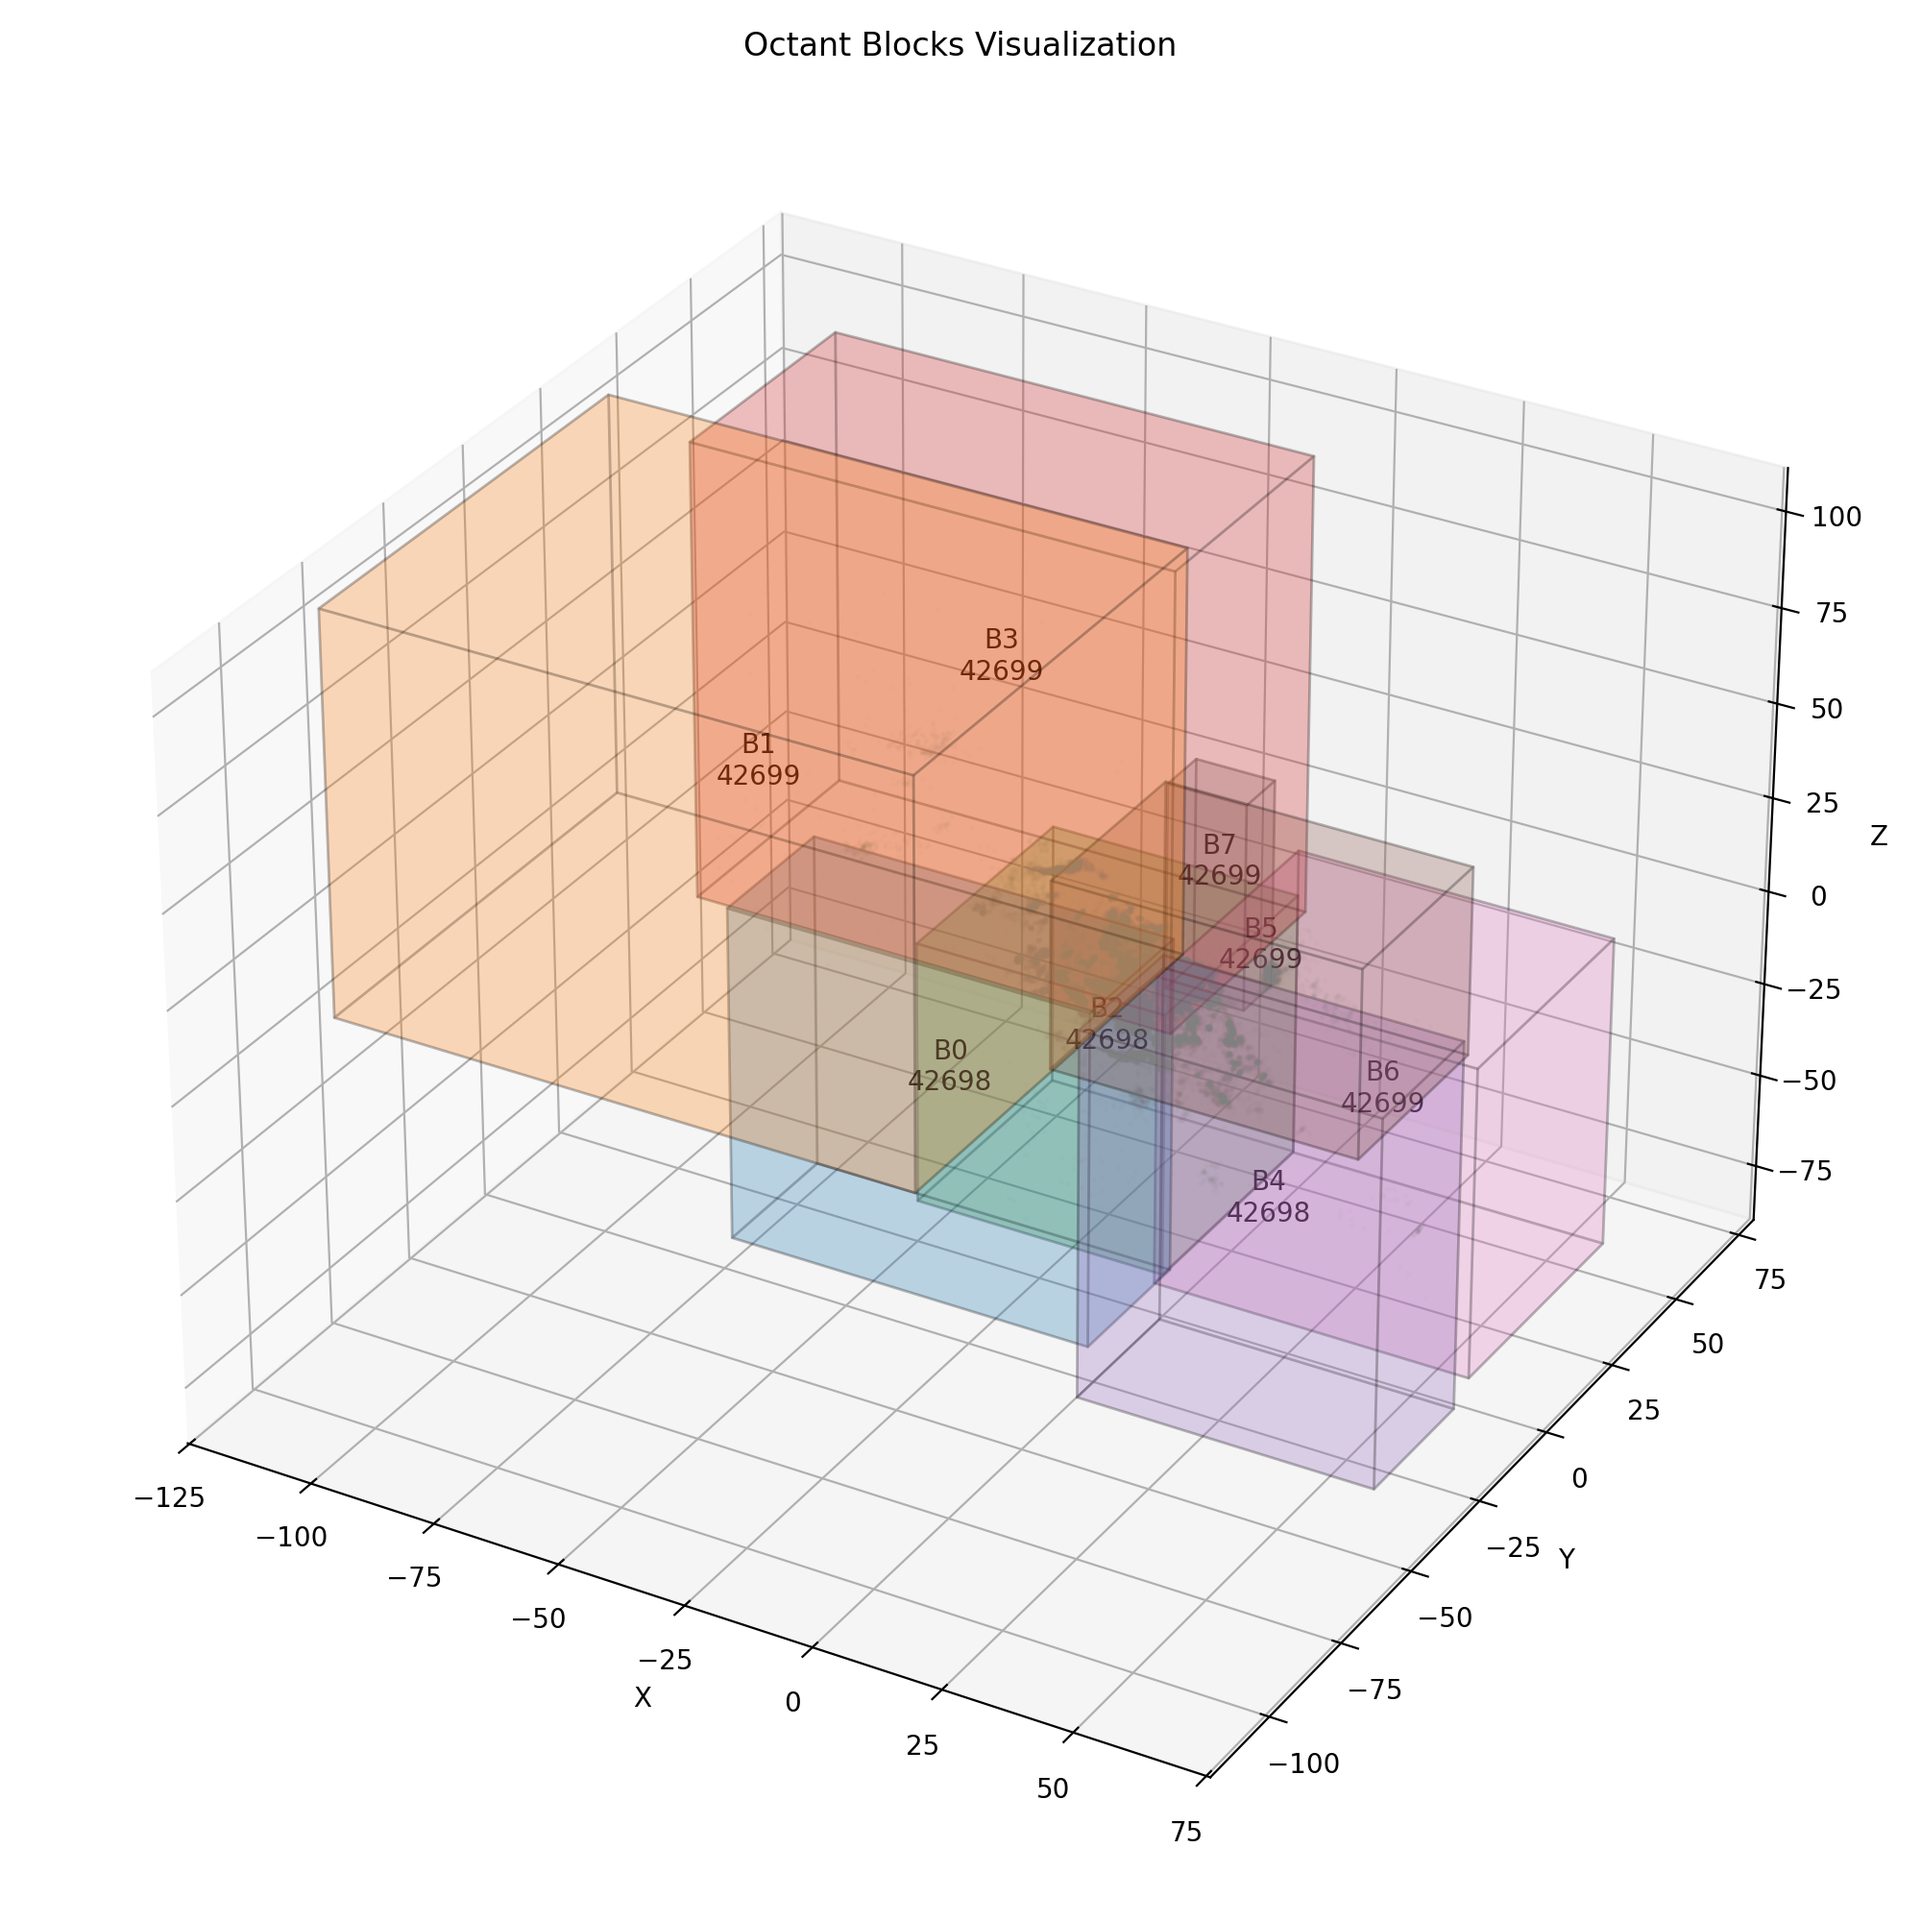
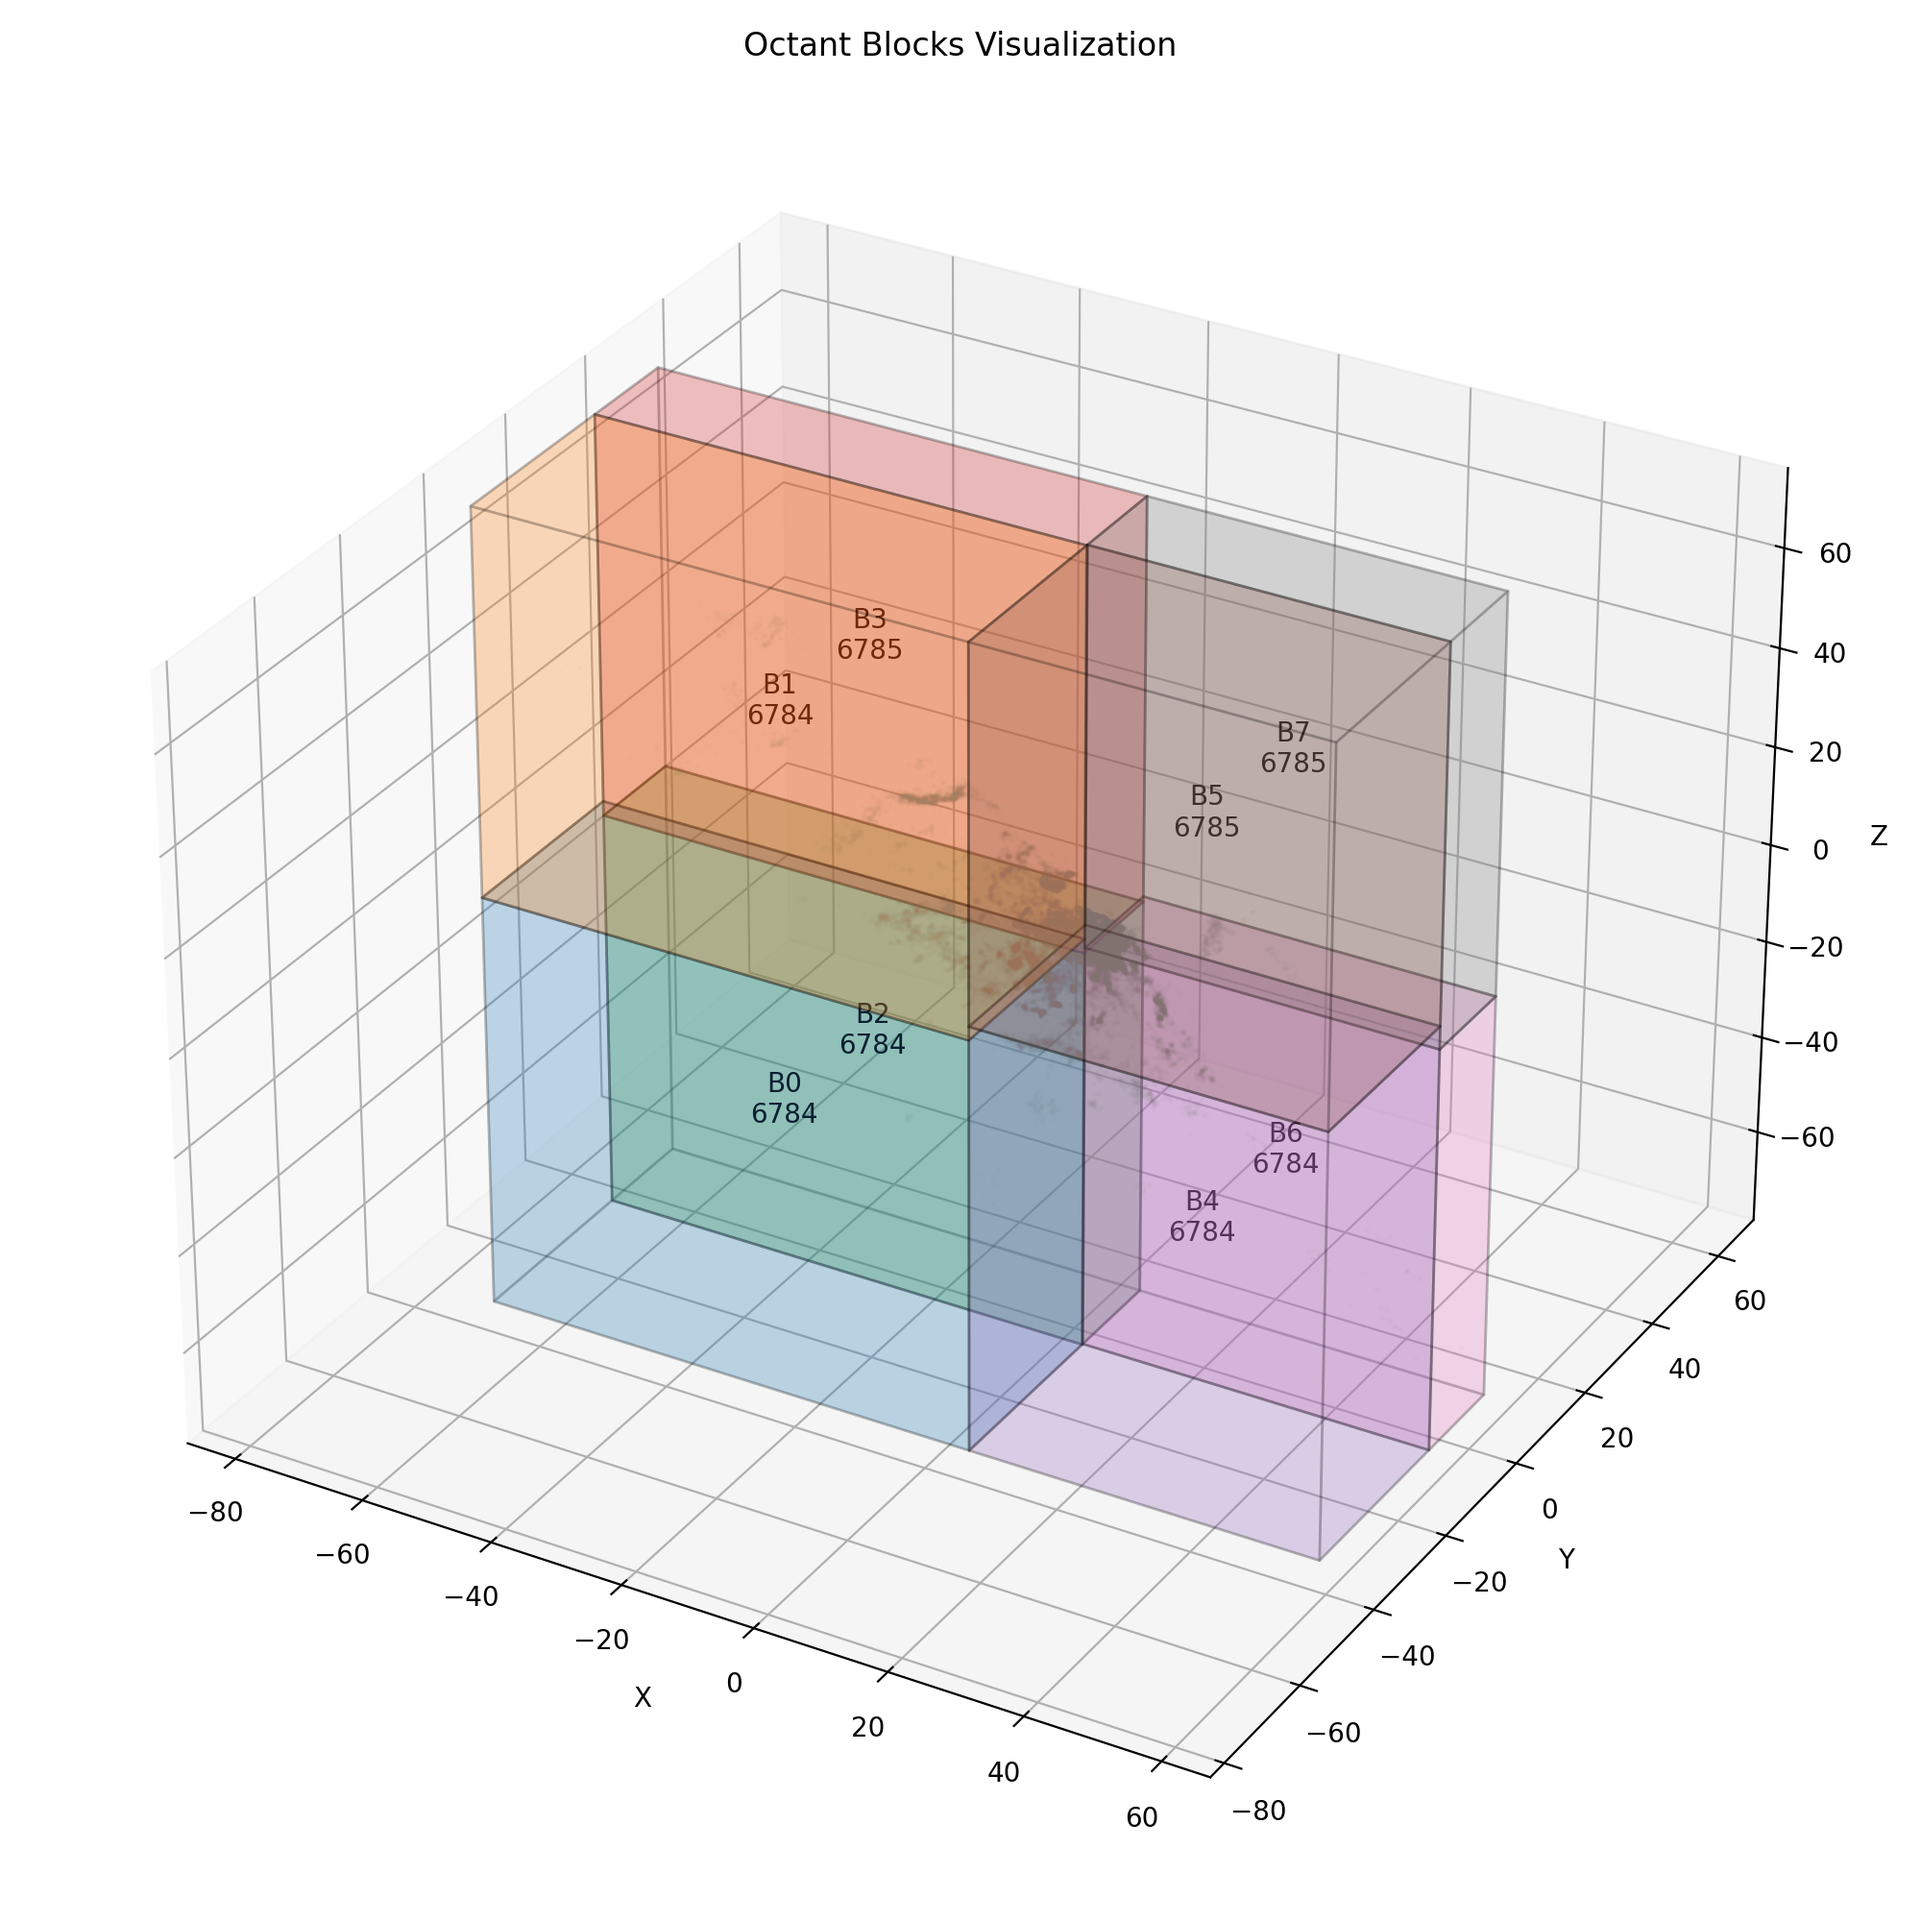
11

diff --git a/partition/__init__.py b/partition/__init__.py
@@ -127,74 +127,73 @@ def generate_octant_blocks_kdtree(xyz: torch.Tensor, inflate_ratio: float = 0.05
 
 
 
-def generate_space_kdtree_blocks(
-    xyz: torch.Tensor,
-    inflate_ratio: float = 0.05,
-    depth: int = 3,   
-):
-    """
-    Space-filling KD-tree (binary split)
-    输出：
-      block_bounds : List[(min_xyz, max_xyz)]
-      block_indices: List[LongTensor]
-    """
+
+def generate_space_kdtree_blocks(xyz: torch.Tensor, inflate_ratio: float = 0.05):
     device = xyz.device
     dtype  = xyz.dtype
     N = xyz.shape[0]
 
-    # ---------- 1. 固定整体 AABB ----------
+    all_idx = torch.arange(N, device=device)
+
+    # ---------- 1) 根 AABB（可 inflate 防漏） ----------
     mins = xyz.min(dim=0).values
     maxs = xyz.max(dim=0).values
-
     center = (mins + maxs) * 0.5
     extent = (maxs - mins) * 0.5
     extent = extent * (1.0 + inflate_ratio)
+    root_min = center - extent
+    root_max = center + extent
 
-    world_min = center - extent
-    world_max = center + extent
-
-    # ---------- 2. 构建 space-filling KD-tree ----------
-    block_bounds = []
-
-    def split(bounds_min, bounds_max, d):
-        if d == depth:
-            block_bounds.append((bounds_min, bounds_max))
-            return
-
-        axis = d % 3
-        mid = (bounds_min[axis] + bounds_max[axis]) * 0.5
-
-        # left child
-        l_min = bounds_min.clone()
-        l_max = bounds_max.clone()
-        l_max[axis] = mid
-
-        # right child
-        r_min = bounds_min.clone()
-        r_max = bounds_max.clone()
-        r_min[axis] = mid
-
-        split(l_min, l_max, d + 1)
-        split(r_min, r_max, d + 1)
-
-    split(world_min, world_max, 0)
-
-    # ---------- 3. 给每个空间 block 分配点 ----------
-    all_idx = torch.arange(N, device=device)
+    block_bounds  = []
     block_indices = []
 
-    for i, (bmin, bmax) in enumerate(block_bounds):
-        mask = (
-            (xyz[:, 0] >= bmin[0]) & (xyz[:, 0] < bmax[0]) &
-            (xyz[:, 1] >= bmin[1]) & (xyz[:, 1] < bmax[1]) &
-            (xyz[:, 2] >= bmin[2]) & (xyz[:, 2] < bmax[2])
-        )
-        idx = all_idx[mask]
-        block_indices.append(idx)
+    # ---------- 2) KD-tree recursion: 3 levels => 8 leaves ----------
+    def recurse(idx: torch.Tensor, bmin: torch.Tensor, bmax: torch.Tensor, depth: int):
+        if depth == 3:
+            # 叶子：bounds 必须是 “由 split 平面传下来的” bmin/bmax，保证不重叠
+            # 为了和你原 octant 一样“不会进 autograd / 可视化安全”，这里用 torch.tensor 重建
+            min_xyz = torch.tensor([bmin[0], bmin[1], bmin[2]], device=device, dtype=dtype)
+            max_xyz = torch.tensor([bmax[0], bmax[1], bmax[2]], device=device, dtype=dtype)
+            block_bounds.append((min_xyz, max_xyz))
+            block_indices.append(idx)
+            return
 
+        axis = depth % 3
+
+        # 按该轴排序，按点数对半分（严格均分靠这里）
+        coords = xyz[idx, axis]
+        _, order = torch.sort(coords)
+        sorted_idx = idx[order]
+        mid = sorted_idx.numel() // 2
+
+        left_idx  = sorted_idx[:mid]
+        right_idx = sorted_idx[mid:]
+
+        # split plane 取“切分值”
+        # 用排序后的中位坐标作为分割面（左: < split, 右: >= split 的空间意义）
+        split_val = xyz[sorted_idx[mid], axis] if sorted_idx.numel() > 0 else (bmin[axis] + bmax[axis]) * 0.5
+
+        # 构造非重叠 bounds（核心：由 split 平面更新父 bounds）
+        left_min = bmin
+        left_max = bmax.clone()
+        left_max[axis] = split_val
+
+        right_min = bmin.clone()
+        right_min[axis] = split_val
+        right_max = bmax
+
+        recurse(left_idx,  left_min,  left_max,  depth + 1)
+        recurse(right_idx, right_min, right_max, depth + 1)
+
+    recurse(all_idx, root_min, root_max, depth=0)
+
+    # ---------- 3) 打印统计 ----------
+    for i, idx in enumerate(block_indices):
         print(f"Block {i:2d}: {idx.numel():7d} points")
 
     return block_bounds, block_indices
+
+
 
 
 def generate_octant_blocks( xyz: torch.Tensor, inflate_ratio: float = 0.05 ):
